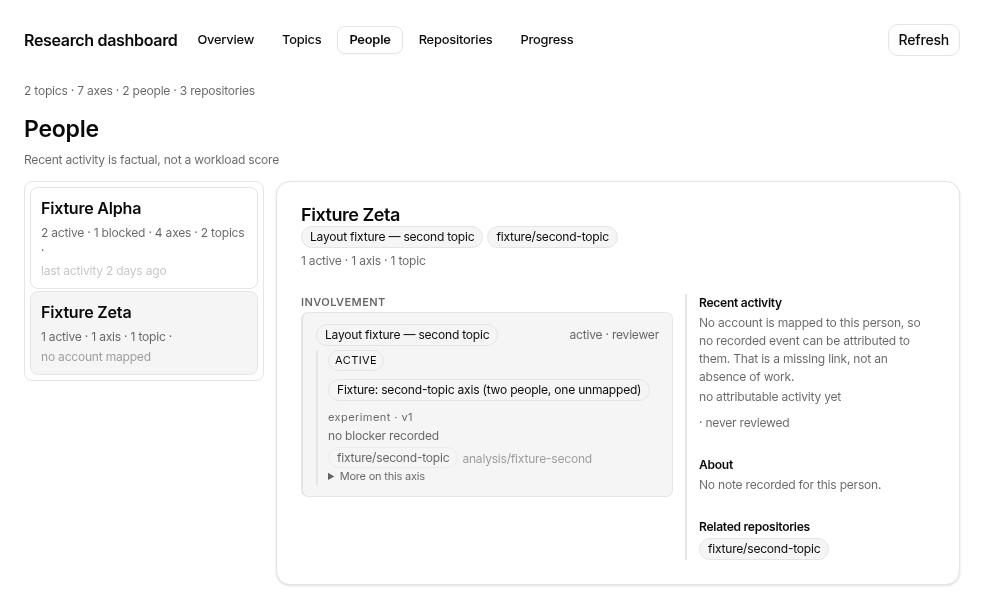
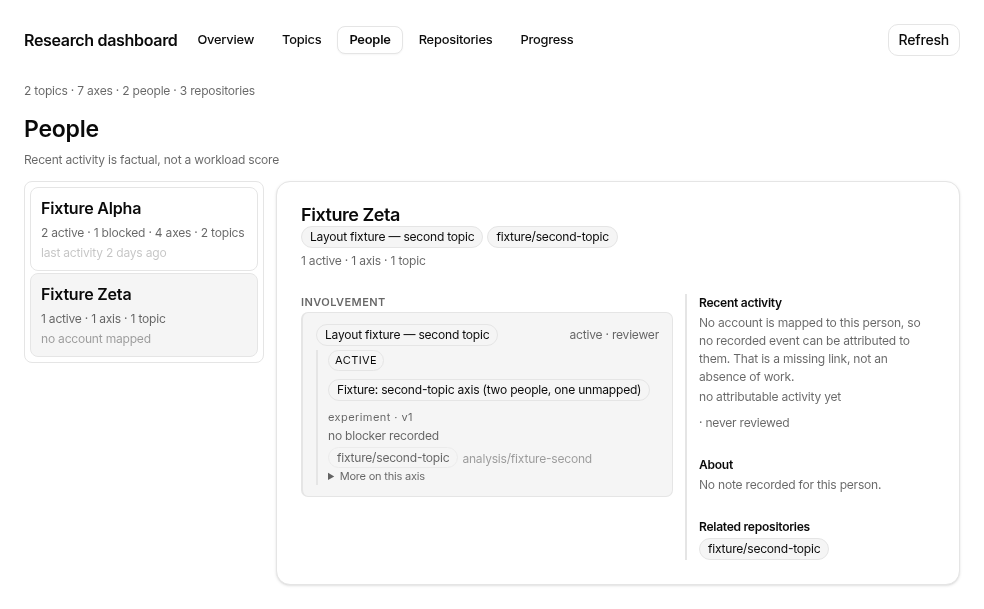
Close the People-index readability package
Remove the People-only separator before block-level recency; preserve factual counts, baseline wording, hooks and the 240px rail. Fixture Alpha measures 102 to 84px at both viewports, with its separator-only line eliminated.

Verify build 0.2.0+dev.7c8fdc999f49, UI sha256 714e55a7f9181bffc0e7ef144c1cfa18fe8c1fcbf3cde10136b030b8fa86179b, corpus revision 60 and fixture 44. Unit tests 127/0; boundary checks 17/0; served assertions 146/0; four read and four focus passes green; negative focus control detects 10 failures.

Record unconditional reviewer acceptance and outcome-based autonomy. Repository behavior stays unchanged; no additional UI polish or cleanup.

Changed region(s): [[0.0305, 0.4056, 0.2439, 0.5928]]

diff --git a/src/store-ux-v2.test.ts b/src/store-ux-v2.test.ts
@@ -913,3 +913,37 @@ describe("U2 projections: what a problem is worth without evidence", () => {
     expect(typeof problemRow?.stale).toBe("boolean");
   });
 });
+
+/**
+ * The People index row's two exceptional recency states (V1/A4). The store is the source of both: a person
+ * with a mapped account but no recorded activity is *attributable* with no last-activity timestamp — which
+ * the row states as "nothing attributed yet", not as an age and not as "none" — while a person with no
+ * mapped account is unattributable and the row says "no account mapped". The UI branches on exactly these
+ * two fields, so pinning them here is what a store test can do to cover the absent rendered state (neither
+ * served dataset carries a mapped-but-silent person).
+ */
+describe("U2 projections: the People index recency states", () => {
+  test("a mapped but silent person is attributable with no last-activity timestamp", () => {
+    const { store } = openStore();
+    store.registerPerson({
+      displayName: "Mapped, quiet",
+      nakamaUserId: "acct-quiet",
+    });
+    store.registerPerson({ displayName: "No account" });
+
+    const byName = new Map(
+      store
+        .getOverview()
+        .people.map((entry) => [entry.person.displayName, entry])
+    );
+    const mapped = byName.get("Mapped, quiet");
+    const unmapped = byName.get("No account");
+
+    // attributable + null lastActivityAt is the pair the row reads as "nothing attributed yet".
+    expect(mapped?.attributable).toBe(true);
+    expect(mapped?.lastActivityAt).toBeNull();
+    // No mapped account: the row reads "no account mapped", and holds no timestamp either.
+    expect(unmapped?.attributable).toBe(false);
+    expect(unmapped?.lastActivityAt).toBeNull();
+  });
+});

diff --git a/src/ui.tsx b/src/ui.tsx
@@ -3386,11 +3386,13 @@ export function apply(ctx: Context) {
                 <span className="rd-strong">{entry.person.displayName}</span>
                 <span className="rd-meta" data-rd-person-context="true">
                   {involvementLine(entry)}
-                  {" · "}
                   {/* V1/A4 — the shared index-row grammar: the name takes the row's full width and the recency
-                      joins the involvement line beneath it. The exceptional states are kept exactly as they
-                      were, and keep their own marker: a person with no attributable activity states that fact
-                      rather than an age, because "no activity" would be a different and false claim. */}
+                      joins the involvement line beneath it. No inter-block separator sits between the two:
+                      the recency child below is block-level, so a literal ` · ` here would orphan at the end
+                      of the involvement line rather than join the two. The exceptional states are kept exactly
+                      as they were, and keep their own marker: a person with no attributable activity states
+                      that fact rather than an age, because "no activity" would be a different and false
+                      claim. */}
                   <span
                     className="rd-meta"
                     data-rd-person-recency={

diff --git a/ui/app.js b/ui/app.js
@@ -2102,7 +2102,7 @@ function apply(ctx) {
     }, entry.person.displayName), /* @__PURE__ */ React.createElement("span", {
       className: "rd-meta",
       "data-rd-person-context": "true"
-    }, involvementLine(entry), " · ", /* @__PURE__ */ React.createElement("span", {
+    }, involvementLine(entry), /* @__PURE__ */ React.createElement("span", {
       className: "rd-meta",
       "data-rd-person-recency": entry.attributable ? entry.lastActivityAt ?? "none" : "unattributable"
     }, entry.attributable ? entry.lastActivityAt ? /* @__PURE__ */ React.createElement(RecencyLabel, {

diff --git a/docs/reviews/2026-10-04-people-index-readability-acceptance-record.md b/docs/reviews/2026-10-04-people-index-readability-acceptance-record.md
@@ -1,0 +1,63 @@
+# People-index readability — final acceptance record (2026-10-04)
+
+**Status: accepted and closed, without conditions.** Reviewer work is complete; commit, publication and merge remain separately owner-authorized. V1 and Tier B B1/B2 remain closed; B3/B4 remain deferred.
+
+## Reviewer ruling (verbatim)
+
+> **People-index readability package accepted.** The People index no longer renders an inter-block separator before block-level recency. Fixture Alpha improves from 102 px to 84 px at both supported viewports with the separator-only line eliminated; other measured People rows do not increase in height. Factual counts, ordinary and exceptional recency wording, hooks, detail content, the 240 px rail, navigation and focus behavior are preserved. No CSS or Repository behavior changed. The implementation is verified by build/unit and host type checks, served measurements, four canonical read passes, four focus passes, a discriminating focus negative control, and dedicated positive/negative boundary-regression coverage. The absence of served `nothing attributed yet` coverage is explicitly recorded and does not block acceptance. No further product or reviewer correction is required.
+
+## Measured build and outcome
+
+| Item | Value |
+|---|---|
+| release | `0.2.0+dev.7c8fdc999f49` |
[1 lines of base64/hex data omitted]
+| corpus / fixture revisions | 60 / 44 |
+| datasets and viewports | corpus and fixture; 1440×900 and 1280×800 |
+| Fixture Alpha | 102→84px; separator-only line 1→0 at both viewports |
+| other sampled People rows | 84px unchanged |
+| rail | 240px; no measured horizontal overflow or row-height increase |
+
+Only the People index's literal boundary separator is removed. Baseline count and recency wording remain;
+shared metadata CSS, detail content and Repository wrapping are unchanged. Recency shortening and conditional
+count de-duplication were explored but not implemented because they did not address the block-boundary mechanism.
+
+## Verification
+
+- `bun run check`: 127 unit tests passed, 0 failed; build and source typecheck green.
+- Explicit host typecheck: 0 plugin diagnostics; host-only diagnostics reported separately, not counted as plugin errors.
+- `bun run harness:boundary`: 17 positive/negative checks passed. Deliberate predicate corruption failed;
+  served transient trailing/inter-sibling separator reinsertion was detected.
+- Both served-build guards green, matching the bundle above; served measurement probe: 146/146 assertions.
+- Canonical corpus read records: 154 pass / 0 fail / 27 skip at each viewport.
+- Canonical fixture read records: 181 pass / 0 fail / 2 skip at each viewport.
+- Ordinary focus records: corpus 60/64, fixture 60/60 passed, 0 failures; negative control detects 10 failures.
+- Public-record hygiene and `git diff --check` green. Screenshots were republished by the read passes;
+  regenerated non-People screenshots do not represent additional UI changes.
+
+The orchestrator independently reran build/unit, source/host type checks, boundary/public-record suites and all
+four served measurement/capture probes, read back the canonical records and inspected the before/after montage.
+Read/focus passes and transient defect-reinsertion checks were executed by the serialized workers.
+
+## Evidence and boundaries
+
+Canonical evidence: [corpus 1440](../corpus/verify-read.txt), [corpus 1280](../corpus/verify-read-1280x800.txt),
+[fixture 1440](../layout-fixtures/verify-fixture-read-1440x900.txt),
+[fixture 1280](../layout-fixtures/verify-fixture-read-1280x800.txt), and the dataset/viewport focus records under
+`docs/ux-v2/`. Standing decision: [DECISIONS §15](../ux-v2/DECISIONS.md#15-people-index-metadata-boundary-and-outcome-based-review-2026-10-04).
+
+`nothing attributed yet` is absent from the served datasets: the added unit test covers its projection fields,
+not rendered-state coverage. This limitation is accepted, not counted as a rendered pass. Range measurements
+are text layout extents, not rasterized glyph ink. Existing console 401/MIME observations were not diagnosed
+or classified as normal by this package.
+
+No service restart, seed/wipe, `AGENTS.md` edit, publication, tag or merge was performed. Local development
+instances were updated for served verification. Reviewer acceptance does not authorize the remaining owner-only
+operational actions.
+
+## Workflow disposition
+
+The package validates outcome-based autonomy: one agreed objective/invariant set, independent investigation,
+implementation, hardening and verification, then final package review. The suspected escaping defect was a
+JSON-display artifact; runtime behavior was correct, and executable predicate coverage was added without
+changing its meaning. No additional cosmetic workstream is opened by closing this package.

diff --git a/.agents/skills/acceptance-pass/SKILL.md b/.agents/skills/acceptance-pass/SKILL.md
@@ -157,6 +157,27 @@ overwrite a good record with an aborted run's transcript by hand.
    emitter and regenerate the record; a write-pass record that still carries the old detail is regenerated only by
    a write run (which mutates the fixture) and is a stated boundary, not an exemption.
 
+## Outcome-based autonomy and review cadence
+
+Agree on the outcome, protected invariants, verification and non-goals once. Within those boundaries, the orchestrator owns investigation, replacement of failed hypotheses, implementation, self-review and technical verification. A failed experiment is not itself a review boundary.
+
+Batch related local corrections into one completed outcome. Escalate before changing product meaning, information hierarchy, shared interaction/layout rules, acceptance semantics, projections/schema or provenance, and for material scope expansion, consequential regression or genuine blockers. Reviewer judgment is required at those boundaries and for final package acceptance, not each reversible implementation step.
+
+Use milestone-based review and lightweight session-end reports labelled **Progress — no response required** or **Decision needed — work paused**. Routine reports do not halt work awaiting a response. Persist resumable package state in a scratch handoff; put detailed evidence in linked artifacts rather than coordination messages.
+
+A completed package names its objective/invariants, changed paths and branch/head, before→after outcome, verification, visual evidence, limitations, hypothesis deviations and pending owner actions. Keep UI implementation serialized. Owner approval remains separate for `AGENTS.md` changes, restarting existing services, publication/release and merge to main; technical success or reviewer approval is not owner authorization.
+
+Treat visual polish as maintenance once correctness, legibility, navigation and accessibility are established. Do not proactively open cosmetic workstreams outside an agreed outcome. Evidence automation and real-use findings require their own product scope and belong to their appropriate project, not an incidental UI fix.
+
+## Read-only product-scoping measurements
+
+- Keep pre-approval probes and screenshots in `.hermes/scratch/`, not canonical acceptance paths: pass wrappers replace records and republish shots.
+- Verify the served build and actual instance parameter set first; serialize dataset captures and wait for each view's populated markers.
+- Measure rail/content widths, row heights, text-node `Range.getClientRects()` line counts and right extents, plus `scrollWidth - clientWidth`. Range rectangles are text layout extents, not rasterized glyph ink. Inspect screenshots to distinguish separator orphaning from overflow.
+- Enumerate rendered rows at both reference viewports programmatically and report absent exceptional-state coverage. Transient DOM experiments are hypotheses, not source edits or acceptance evidence.
+- Trace formatting helpers to every consumer before proposing index-only simplification: a shared helper can also change detail panels. Keep repository break selectors repository-specific, not shared across all index titles.
+- Inspect nested metadata display rules before predicting wrapping: a block-level recency child leaves a preceding separator on the involvement line, so shortening recency cannot rescue that separator. Group per-character Range rectangles by line to detect separator-only lines; whole-node rectangles cannot identify their contents.
+
 ## Verification
 
 - The transcript's summary line states passed/failed/skipped, and the header names dataset and viewport.

diff --git a/docs/ux-v2/DECISIONS.md b/docs/ux-v2/DECISIONS.md
@@ -518,3 +518,34 @@ not relaxed: "reached by ordinary page scrolling" is now bounded by the **intend
 when the host constrains the page to an inner port, not merely by the window (a window-only bound would accept
 content the port still clips). Source: `src/ui.tsx` and `harness/verify-page.mjs`; measured in
 [`V1-visual-coherence.md`](V1-visual-coherence.md) §*Post-audit correction*.
+
+### 15. People index metadata boundary and outcome-based review (2026-10-04)
+
+The reviewer authorized the post-V1 People readability outcome: preserve every factual count, baseline ordinary
+and exceptional recency wording, the shared row grammar, 240px rail, hooks, navigation and focus behavior.
+Because the People recency child is block-level, the index renders **no inter-block separator** between its
+involvement text and recency. Separators within the factual counts remain. This is People-index-local: no
+shared metadata CSS, detail-panel wording or Repository behavior changes.
+
+The source implementation is **accepted and closed without conditions** by the final reviewer ruling in
+[`people-index readability acceptance record`](../reviews/2026-10-04-people-index-readability-acceptance-record.md).
+Commit, publication and merge remain owner-authorized. Served measurements
+on corpus and fixture at 1440×900 and 1280×800 show Fixture Alpha 102→84px with its separator-only line 1→0;
+other sampled People rows stay 84px, with no dangling factual separator, horizontal overflow or row-height
+increase. The measured build is `0.2.0+dev.7c8fdc999f49`, bundle sha256
[1 lines of base64/hex data omitted]
+The absent `nothing attributed yet` state has projection-level unit coverage, not rendered dataset coverage.
+
+Repository wrapping remains unchanged by the reviewer's ruling: the historical approximately 10px overflow
+was **not reproduced** on the fresh samples, not universally disproved. A single-line name is not a requirement;
+no ellipsis, rail widening, forced break or synthetic safety net is authorized by this package. V1 and Tier B
+B1/B2 remain closed; B3/B4 and further cleanup remain deferred.
+
+**Standing workflow (reviewer ruling, verbatim):**
+
+> Agree on outcome + invariants once. Within those boundaries, the orchestrator owns investigation, failed hypotheses, implementation and technical verification. Routine progress reports are informational. Reviewer approval is required for consequential product decisions, protected-boundary changes, material scope expansion and final package acceptance—not for each reversible implementation step. Owner-only operational actions remain separately gated.
+
+Use milestone-based review and lightweight session-end reporting. Visual polish is maintenance, not a new
+roadmap: further product work should improve operational usefulness and be separately scoped. This ruling does
+not authorize an evidence-ingestion pipeline inside this plugin repository, publication, merge, service restart
+or `AGENTS.md` edits. Contributor procedure: `.agents/skills/acceptance-pass/SKILL.md`.
